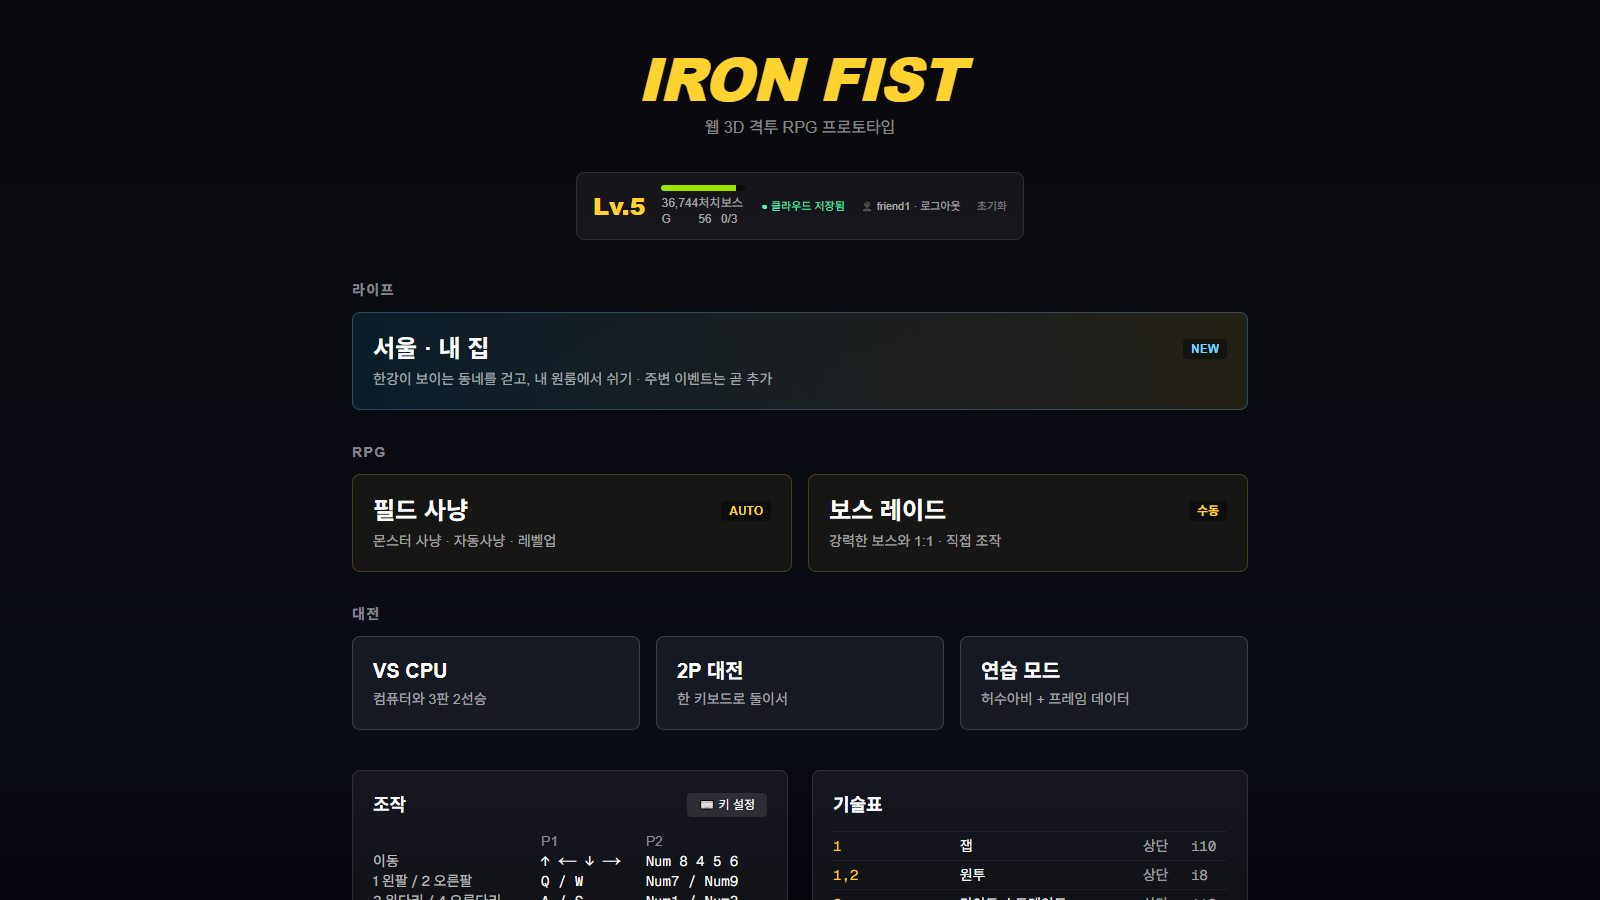
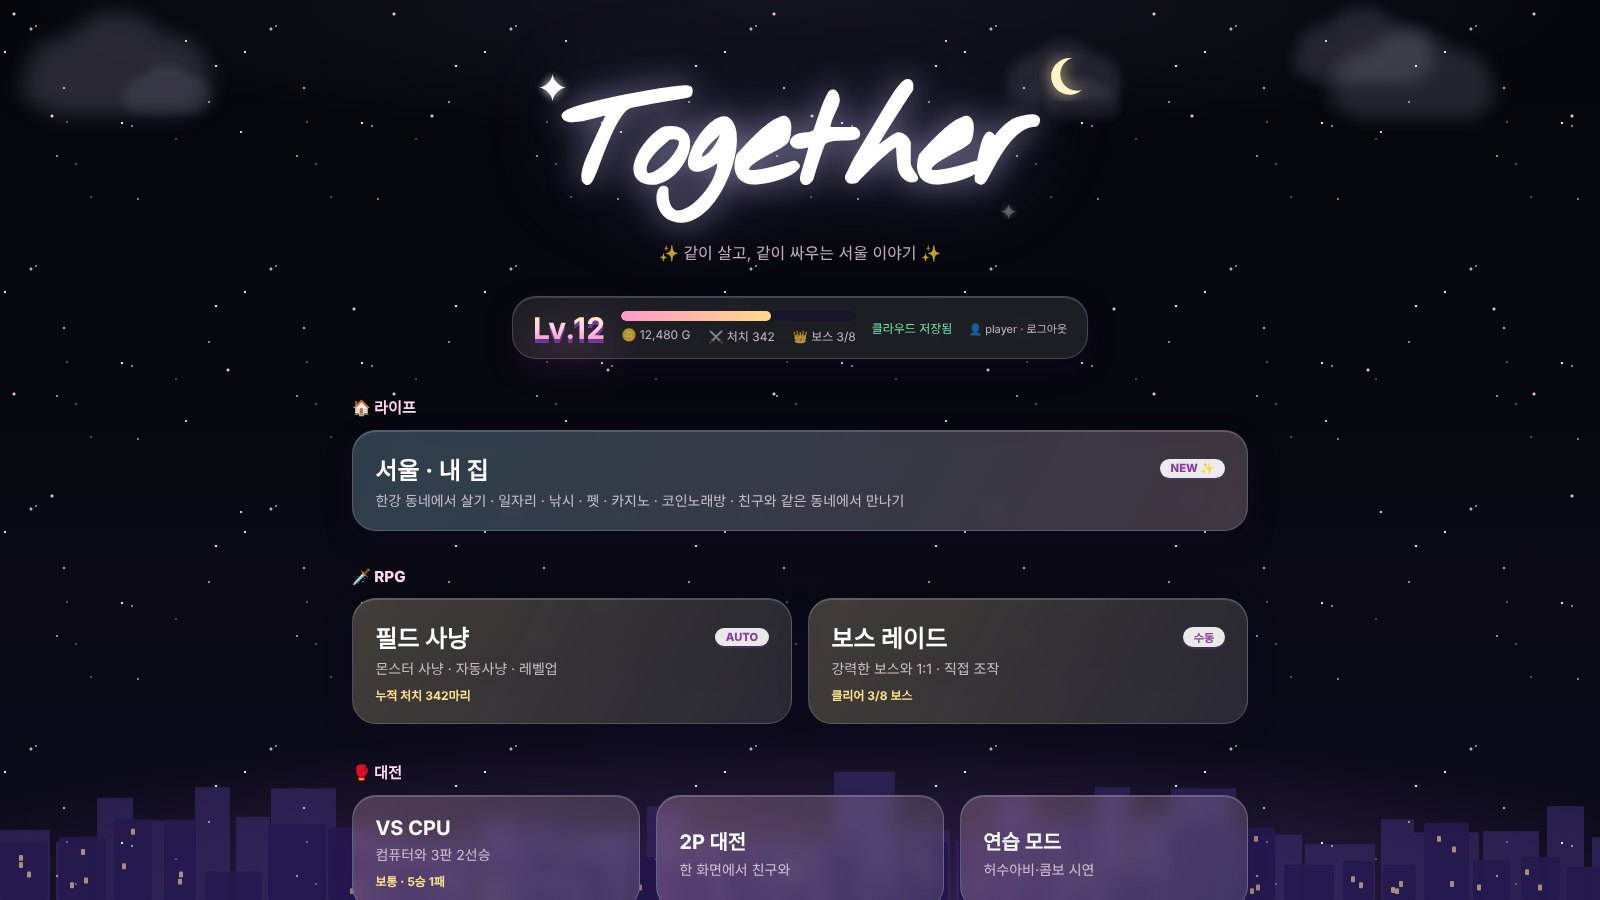
IRON FIST → Together 이름 변경과 새 메인 화면 반영
- 프로젝트 이름·슬라이드 제목·자기소개 문단·README·코드 리뷰/업데이트 기록 라벨을 Together 로 바꾼다 (옛 이름 병기)
- 메인 메뉴 슬라이드 설명에 새 화면(밤하늘·흘러가는 구름·도시 실루엣·손글씨 로고·유리 카드)을 추가한다
- 메인 메뉴 스크린샷(ironfist-menu.jpg)을 새 화면으로 교체한다

Claude-Session: https://claude.ai/code/session_017W6FfaNU7fQtoKaazQc3uY

diff --git a/src/App.js b/src/App.js
@@ -277,17 +277,17 @@ useEffect(() => {
     },
     {
       id: 'ironfist',
-      name: '프로젝트 2: IRON FIST 웹 3D 격투 RPG',
+      name: '프로젝트 2: Together 웹 3D 격투 RPG',
       thumbnail: '/ironfist-city.jpg',
       description: '브라우저에서 바로 즐기는 3D 격투 RPG입니다. 격투 대전, 필드 사냥, 보스 레이드에 서울 동네를 걷는 생활 모드와 실시간 멀티플레이까지 담았습니다.',
-      fullDescription: 'IRON FIST는 설치 없이 웹 브라우저에서 바로 플레이하는 3D 격투 RPG입니다. 철권 같은 3D 격투 게임의 손맛을 웹에서 구현해 보고 싶어 시작했고, 지금도 계속 개발하고 있습니다.\n\n1:1 대전(VS CPU, 2P, 연습 모드), 몬스터를 자동으로 사냥하는 필드, 패턴과 분노 단계가 있는 보스 레이드를 만들었고, 레벨·경험치·골드는 하나의 프로필로 모든 모드가 함께 씁니다. 여기에 한강이 보이는 서울 동네를 걸으며 내 집(행복빌라)에 들어가고, 아르바이트·낚시·옷 가게·펫 키우기·코인노래방을 즐기고, 지하철을 타고 놀이공원에 가서 놀이기구를 1인칭으로 타는 생활 모드를 더했습니다. 동네에는 계절에 따라 비·눈·뇌우·안개가 바뀌는 날씨도 있습니다.\n\n타격 판정은 주먹·발이 실제로 상대 몸에 닿는 순간에만 들어갑니다. 화면 캐릭터와 같은 관절 각도를, 캐릭터마다 3D 모델 뼈에서 잰 팔·다리 길이로 이어 붙여 매 프레임 주먹·발과 상대 몸의 위치를 계산합니다. 상대를 보고 있는 캐릭터는 캐릭터마다 다른 반응 속도로 공격을 알아채고 뒤로 피하며, 거리가 모자라면 피하다가 맞습니다.\n\n로그인하면 기록이 Supabase 서버에 자동 저장되고, 같은 동네에 접속한 친구와 실시간으로 만나 함께 움직이고 겨룰 수 있습니다. 내가 보는 친구의 행동과 친구가 보는 내 행동이 같도록, 근무·낚시·잠자기·TV 시청 같은 행동도 서로의 화면에 똑같이 보이게 맞췄습니다. 게임 속 시각은 서버 시각에 맞춘 실제 한국 시각과 같고, 날씨·행인·자동차·신호등·경찰은 접속자 중 한 명의 브라우저가 계산해 나머지에게 보내므로 모든 사람이 같은 상황을 겪습니다. 동네 NPC와는 Claude API로 자유롭게 대화할 수 있습니다. 사양이 낮은 컴퓨터에서도 할 수 있도록, 처음 접속할 때 그래픽카드를 보고 시작 화질을 정하고 프레임이 떨어지면 후처리·그림자·해상도 순으로 화질을 9단계까지 자동으로 낮추며, 메뉴에서 화질을 직접 고를 수도 있습니다. 기획부터 구현, 테스트, 배포까지 AI(Claude Code)와 협업해 혼자 진행하고 있는 프로젝트입니다.',
+      fullDescription: 'Together(옛 이름 IRON FIST)는 설치 없이 웹 브라우저에서 바로 플레이하는 3D 격투 RPG입니다. 철권 같은 3D 격투 게임의 손맛을 웹에서 구현해 보고 싶어 시작했고, 지금도 계속 개발하고 있습니다.\n\n1:1 대전(VS CPU, 2P, 연습 모드), 몬스터를 자동으로 사냥하는 필드, 패턴과 분노 단계가 있는 보스 레이드를 만들었고, 레벨·경험치·골드는 하나의 프로필로 모든 모드가 함께 씁니다. 여기에 한강이 보이는 서울 동네를 걸으며 내 집(행복빌라)에 들어가고, 아르바이트·낚시·옷 가게·펫 키우기·코인노래방을 즐기고, 지하철을 타고 놀이공원에 가서 놀이기구를 1인칭으로 타는 생활 모드를 더했습니다. 동네에는 계절에 따라 비·눈·뇌우·안개가 바뀌는 날씨도 있습니다.\n\n타격 판정은 주먹·발이 실제로 상대 몸에 닿는 순간에만 들어갑니다. 화면 캐릭터와 같은 관절 각도를, 캐릭터마다 3D 모델 뼈에서 잰 팔·다리 길이로 이어 붙여 매 프레임 주먹·발과 상대 몸의 위치를 계산합니다. 상대를 보고 있는 캐릭터는 캐릭터마다 다른 반응 속도로 공격을 알아채고 뒤로 피하며, 거리가 모자라면 피하다가 맞습니다.\n\n로그인하면 기록이 Supabase 서버에 자동 저장되고, 같은 동네에 접속한 친구와 실시간으로 만나 함께 움직이고 겨룰 수 있습니다. 내가 보는 친구의 행동과 친구가 보는 내 행동이 같도록, 근무·낚시·잠자기·TV 시청 같은 행동도 서로의 화면에 똑같이 보이게 맞췄습니다. 게임 속 시각은 서버 시각에 맞춘 실제 한국 시각과 같고, 날씨·행인·자동차·신호등·경찰은 접속자 중 한 명의 브라우저가 계산해 나머지에게 보내므로 모든 사람이 같은 상황을 겪습니다. 동네 NPC와는 Claude API로 자유롭게 대화할 수 있습니다. 사양이 낮은 컴퓨터에서도 할 수 있도록, 처음 접속할 때 그래픽카드를 보고 시작 화질을 정하고 프레임이 떨어지면 후처리·그림자·해상도 순으로 화질을 9단계까지 자동으로 낮추며, 메뉴에서 화질을 직접 고를 수도 있습니다. 기획부터 구현, 테스트, 배포까지 AI(Claude Code)와 협업해 혼자 진행하고 있는 프로젝트입니다.',
       techStack: ['Next.js', 'TypeScript', 'Three.js', 'Supabase', 'Supabase Realtime', 'WebRTC', 'Claude API', 'Vercel'],
       github: 'https://github.com/dudnjs123456-blip/ONE',
       demo: 'https://tekken-web-five.vercel.app',
       slides: [
-        { type: 'title', title: 'IRON FIST', subtitle: '웹 3D 격투 RPG · 기획부터 배포까지 AI 협업 개발 (진행 중)' },
+        { type: 'title', title: 'Together', subtitle: '웹 3D 격투 RPG · 기획부터 배포까지 AI 협업 개발 (진행 중)' },
         { type: 'text', title: '1. 프로젝트 개요', content: '설치 없이 브라우저에서 바로 플레이하는 3D 격투 RPG입니다.\n격투 대전 · RPG(필드 사냥, 보스 레이드) · 서울 생활 모드, 세 갈래로 구성했습니다.\n2026년 10월 시작해 현재 Vercel에 배포하고 기능을 계속 추가하고 있으며, 코드는 약 3만 줄 규모입니다.' },
-        { type: 'image_text', title: '2. 실제 화면: 메인 메뉴', image: '/ironfist-menu.jpg', imageClassName: 'eywa-screen-image', content: '로그인하면 레벨과 골드, 클라우드 저장 상태를 보여 주고, 라이프 · RPG · 대전 모드를 고를 수 있습니다.' },
+        { type: 'image_text', title: '2. 실제 화면: 메인 메뉴', image: '/ironfist-menu.jpg', imageClassName: 'eywa-screen-image', content: '로그인하면 레벨과 골드, 클라우드 저장 상태를 보여 주고, 라이프 · RPG · 대전 모드를 고를 수 있습니다. 게임 이름을 IRON FIST에서 Together로 바꾸면서 메인 화면도 새로 꾸몄습니다. 검은 밤하늘에 별이 반짝이고, 위쪽에는 크기·높이·속도가 다른 구름들이 천천히 흘러가며, 아래에는 창문 불빛이 켜진 보랏빛 도시 실루엣이 깔립니다. 제목 로고는 손글씨 글꼴에 흰 테두리를 둘러 획을 두껍게 만들고, 초승달과 반짝이는 별을 곁들였습니다. 메뉴 카드는 둥근 반투명 유리 카드로 바꿔 마우스를 올리면 살짝 떠오르게 했고, 로그인 화면도 같은 분위기로 맞췄습니다. 글꼴 파일은 저장소에 직접 넣어 어디서 접속해도 같은 모양으로 보이고, 기기에서 동작 줄이기를 켠 사용자에게는 구름과 별이 멈춘 채로 보입니다.' },
         { type: 'text', title: '3. 격투 엔진 설계', content: '게임 로직은 1/60초 고정 간격으로 진행하고, 화면 그리기와 분리했습니다.\n같은 입력이면 항상 같은 결과가 나오도록 만들었습니다. 덕분에 경기 중 입력만 녹화해 두었다가 그대로 다시 재생하는 리플레이 기능을 붙였고, 나중에 온라인 대전도 같은 방식으로 붙일 수 있습니다.\n기술은 발생·지속·후딜 프레임과 가드·히트 시 이득으로 정의하고, 상·중·하단 판정, 띄우기 콤보, 횡이동 회피를 구현했습니다.' },
         { type: 'image_text', title: '4. 실제 화면: 1:1 대전', image: '/ironfist-versus.jpg', imageClassName: 'eywa-screen-image', content: 'VRM 3D 캐릭터에 모션 캡처 애니메이션을 섞어 움직임을 표현했습니다. 캐릭터는 코디 창에서 고를 수 있고, 기본 남자·여자 모델 외에 VRoid Studio로 직접 만든 캐릭터도 넣었습니다. 코디 창에서는 옷 색만 바꾸는 데서 나아가 옷 자체를 갈아입을 수 있습니다. 다른 캐릭터의 옷을 떼어 몸매가 다른 기본 몸에 자동으로 맞추는 변환 도구를 만들어(뼈 위치 차이 보정, 원래 몸과의 간격을 새 몸에 재현, 몸이 뚫고 나온 곳 밀어내기), 옷만 담긴 0.4~0.8MB 파일을 게임에서 캐릭터 뼈대에 다시 묶어 입히고 치마 흔들림까지 옮겼습니다. 이 도구로 여러 캐릭터의 티셔츠·반바지·롱 원피스·운동화·샌들을 뽑아, 상의·하의·신발을 따로 바꿔 입고 코디 색과 줄무늬·체크 무늬를 진짜 옷 그림에 입히도록 했습니다. 소매·바짓가랑이가 팔다리를 따라가는 설정까지 함께 옮겨, 팔을 내리거나 걸어도 옷이 자연스럽게 움직입니다. 화면 아래에는 방금 맞힌 기술의 판정과 데미지가 표시되고, 경기가 끝나면 준 데미지·맞힌 횟수·카운터·최대 콤보 같은 경기 통계를 보여 줍니다. 연습 모드에서는 추천 콤보를 캐릭터가 직접 시연하고, 방금 누른 방향·버튼과 프레임 수를 입력 기록으로 보여 주며, 내 동작을 5초 녹화하면 허수아비가 그대로 반복해 막기·반격을 연습할 수 있습니다. VS CPU에서 이기면 난이도별 점수가 쌓여 입문부터 철권왕까지 7단계 랭크가 오르고, 전적과 함께 계정에 저장됩니다.' },
         { type: 'image_text', title: '5. 실제 화면: 필드 사냥', image: '/ironfist-field.jpg', imageClassName: 'eywa-screen-image', content: '자동 사냥 AI가 몬스터를 찾아 싸우고, 경험치와 골드를 얻어 레벨업합니다. Z 키로 언제든 직접 조작으로 바꿀 수 있습니다. 보스 레이드에서는 아머·연타·분노 단계가 있는 보스 3종과 직접 싸웁니다.' },
@@ -469,7 +469,7 @@ useEffect(() => {
             저는 사용자의 불편을 이해하기 쉬운 화면과 실제 동작하는 기능으로 바꾸는 프론트엔드 개발자입니다. JavaScript와 TypeScript를 바탕으로 <span className="highlight">React·Next.js 웹 애플리케이션</span>을 만들고, <span className="highlight">반응형 UI와 사용 흐름</span>을 세심하게 다듬습니다. 디자인과 영상 편집에도 관심이 있어 화면의 완성도와 전달 방식까지 함께 고민합니다.
           </p>
           <p className="about-intro-copy">
-            프론트엔드 구현에 그치지 않고 <span className="highlight">Node.js·Express 서버와 REST API 연동</span>, Supabase와 PostgreSQL·MySQL 데이터 흐름까지 다뤄 왔습니다. EYWA에서는 학부모의 셔틀 정보 확인과 변경이 <span className="highlight">실제 데이터 저장 및 운영 이력</span>으로 이어지도록 개선했고, IRON FIST에서는 Three.js 기반 브라우저 3D 게임과 실시간 기능을 구현하고 있습니다.
+            프론트엔드 구현에 그치지 않고 <span className="highlight">Node.js·Express 서버와 REST API 연동</span>, Supabase와 PostgreSQL·MySQL 데이터 흐름까지 다뤄 왔습니다. EYWA에서는 학부모의 셔틀 정보 확인과 변경이 <span className="highlight">실제 데이터 저장 및 운영 이력</span>으로 이어지도록 개선했고, Together에서는 Three.js 기반 브라우저 3D 게임과 실시간 기능을 구현하고 있습니다.
           </p>
           <p className="about-intro-copy">
             <span className="highlight">요구사항을 작은 기능으로 나누고, 구현 결과를 직접 확인하며 끝까지 다듬는 과정</span>을 중요하게 생각합니다. AI와 협업할 때도 제안된 코드를 그대로 적용하기보다 동작과 사용자 경험을 검토한 뒤 반영합니다. 새로운 기술을 꾸준히 익히고 팀과 명확하게 소통하며, 안정적이고 실질적인 가치를 만드는 서비스를 개발하겠습니다.
@@ -675,7 +675,7 @@ useEffect(() => {
               ref={el => contentRefs.current[currentRefIndex++] = el}
               style={{ transitionDelay: '1.4s' }}
             >
-              지금은 웹 3D 격투 RPG <span className="review-ai-highlight">'IRON FIST'</span>를 개발하고 있습니다. 브라우저에서 3D 캐릭터가 싸우고, 친구와 실시간으로 같은 동네를 돌아다니는 게임을 만들면서 웹이 할 수 있는 일의 범위가 생각보다 훨씬 넓다는 것을 느꼈습니다. 기능이 많아질수록 한 곳을 고쳤을 때 다른 곳에 문제가 생기지 않는지 확인하는 일이 중요해졌고, 그래서 격투 판정, 보스 밸런스, 저장, 멀티플레이를 화면 없이 자동으로 검증하는 테스트를 만들어 변경할 때마다 확인했습니다.
+              지금은 웹 3D 격투 RPG <span className="review-ai-highlight">'Together'</span>를 개발하고 있습니다. 브라우저에서 3D 캐릭터가 싸우고, 친구와 실시간으로 같은 동네를 돌아다니는 게임을 만들면서 웹이 할 수 있는 일의 범위가 생각보다 훨씬 넓다는 것을 느꼈습니다. 기능이 많아질수록 한 곳을 고쳤을 때 다른 곳에 문제가 생기지 않는지 확인하는 일이 중요해졌고, 그래서 격투 판정, 보스 밸런스, 저장, 멀티플레이를 화면 없이 자동으로 검증하는 테스트를 만들어 변경할 때마다 확인했습니다.
               <span className="review-growth-highlight"> 만들고 싶은 것을 끝까지 만들어 실제로 배포하고, 직접 플레이하며 고쳐 나가는 과정</span>이 개발자로서 가장 즐겁고 크게 성장하는 순간이라는 것을 다시 한번 느끼고 있습니다.
             </p>
 

diff --git a/src/lib/supabase.js b/src/lib/supabase.js
@@ -1,6 +1,6 @@
 import { createClient } from '@supabase/supabase-js';
 
-// 게임 IRON FIST 와 같은 Supabase 프로젝트. .env 에 값이 없으면 null → 코멘트 기능만 꺼진다.
+// 게임 Together(옛 IRON FIST) 와 같은 Supabase 프로젝트. .env 에 값이 없으면 null → 코멘트 기능만 꺼진다.
 const url = process.env.REACT_APP_SUPABASE_URL;
 const key = process.env.REACT_APP_SUPABASE_ANON_KEY;
 

diff --git a/src/components/CodeReview.js b/src/components/CodeReview.js
@@ -4,7 +4,7 @@ import './CodeReview.css';
 
 // 매일 밤 Claude 가 저장소별 그날 커밋을 리뷰해 올린 글 (code_review_posts 테이블)
 const REPO_LABELS = {
-  'dudnjs123456-blip/ONE': 'IRON FIST',
+  'dudnjs123456-blip/ONE': 'Together',
   'dudnjs123456-blip/introduce': '포트폴리오',
   'dudnjs123456-blip/Albartoon': '알바툰',
   'dudnjs123456-blip/eywa-test': 'EYWA 테스트',

diff --git a/src/data/githubActivity.js b/src/data/githubActivity.js
@@ -7,7 +7,7 @@ const OWNER = 'dudnjs123456-blip';
 
 export const TRACKED_REPOS = [
   { repo: 'introduce', label: '포트폴리오' },
-  { repo: 'ONE', label: 'IRON FIST' },
+  { repo: 'ONE', label: 'Together' },
   { repo: 'Albartoon', label: '알바툰' },
 ];
 
